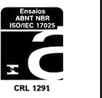
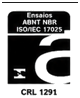
fix: remocao definitiva da linha preta vertical lateral e ampliacao do selo de acreditacao ISO 17025 no exame toxicologico

diff --git a/criar-exame.html b/criar-exame.html
@@ -682,9 +682,9 @@
         }
 
         .pardini-acred-img {
-            height: 84px;
+            height: 94px;
             width: auto;
-            max-width: 105px;
+            max-width: 115px;
             display: block;
             object-fit: contain;
         }
@@ -1444,7 +1444,7 @@
                             </div>
 
                             <div class="pardini-acred-badge">
[2 lines of base64/hex data omitted]
                             </div>
                         </div>
 
